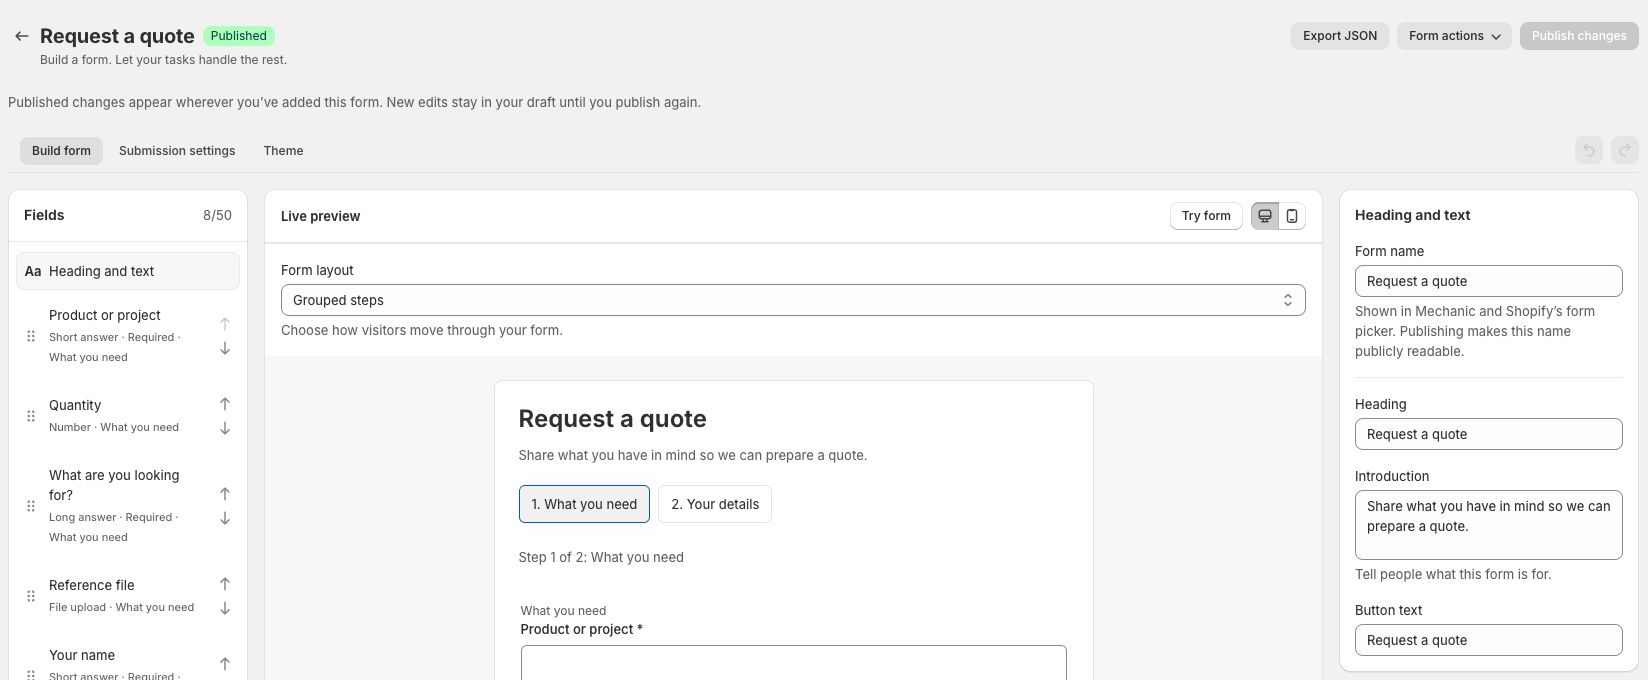
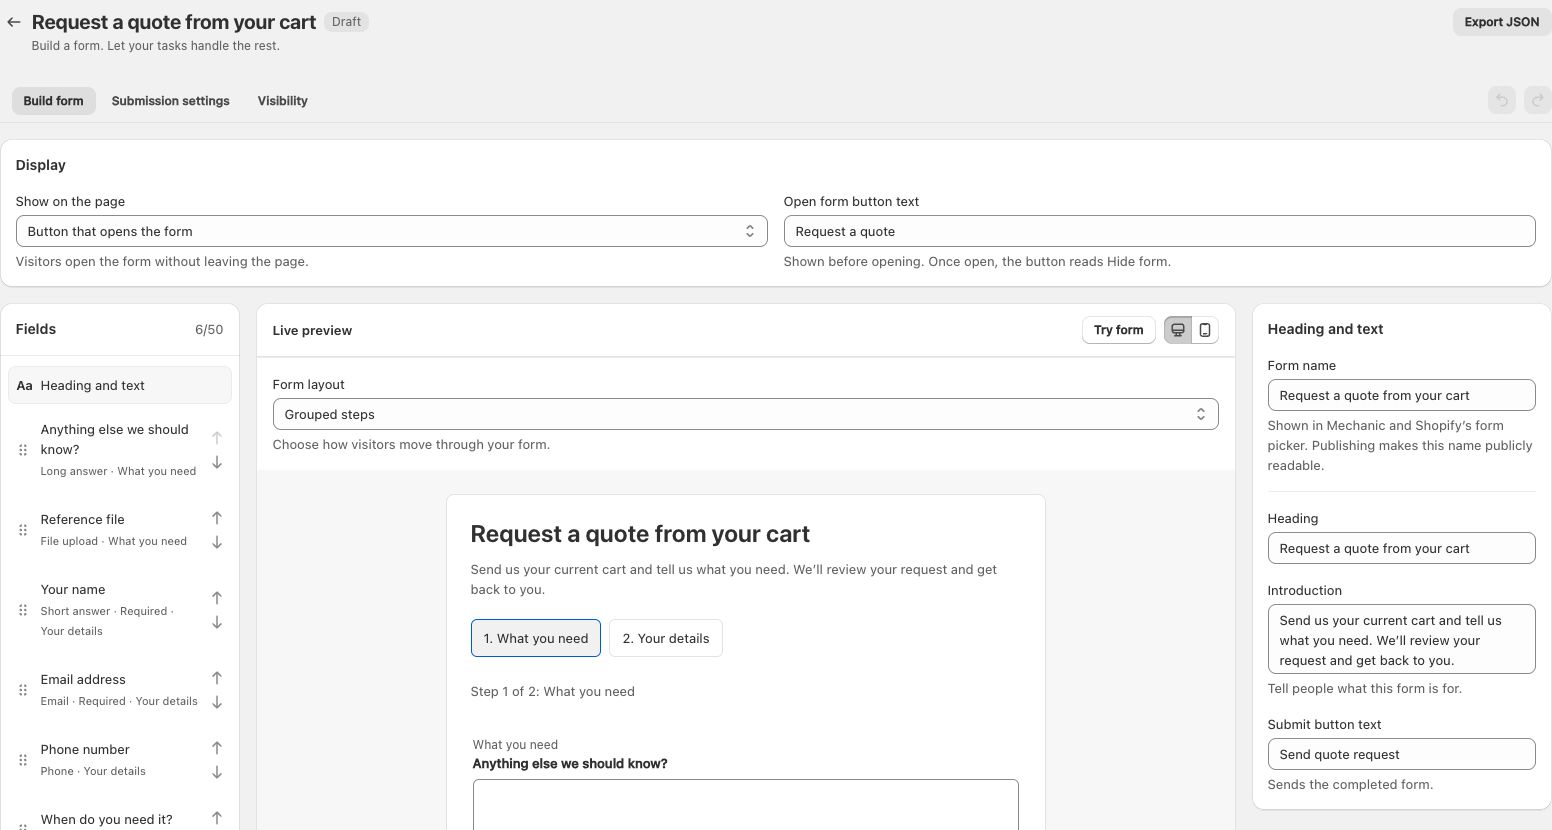
Clarify form display and refresh the builder screenshot

diff --git a/app/forms.md b/app/forms.md
@@ -39,7 +39,7 @@ Templates provide questions, not an approval or booking workflow. Your subscribe
 
 <figure><img src="../.gitbook/assets/storefront-forms-templates.png" alt="Storefront form templates in Mechanic, including quote requests, cart quotes, warranties, and service requests"><figcaption><p>Start with the workflow you need, then make the questions your own.</p></figcaption></figure>
 
-<figure><img src="../.gitbook/assets/storefront-forms-builder.png" alt="The quote-request form builder with a field list, live preview, and heading and text settings"><figcaption><p>Edit questions beside a live preview. This quote-request starter groups its questions into two steps.</p></figcaption></figure>
+<figure><img src="../.gitbook/assets/storefront-forms-builder.png" alt="The cart quote form builder with Display settings above the field list, live preview, and heading and text settings"><figcaption><p>Edit questions beside a live preview. This cart quote starter groups its questions into two steps. Display controls whether visitors see the full form or a button first.</p></figcaption></figure>
 
 ### Choose a layout
 
@@ -51,7 +51,7 @@ Your theme supplies the form’s fonts and colors. You do not need to edit theme
 
 ### Open the form from a button
 
-In **Build form → Heading and text**, set **Show on the page** to **Button that opens the form** and choose the **Open form button text**. The form opens in the same place on the page. Visitors can close and reopen it without losing their answers. Choose **Full form** to display the questions immediately.
+In the **Display** section at the top of **Build form**, set **Show on the page** to **Button that opens the form** and choose the **Open form button text**. The form opens in the same place on the page, and the opening button changes to **Hide form**. Visitors can close and reopen it without losing their answers. The **Submit button text** setting under **Heading and text** controls the separate button that sends the completed form. Choose **Full form** to display the questions immediately.
 
 This option works with any form. Visibility conditions apply to both the button and the form, and your theme still supplies the fonts and colors. Save and publish to change the storefront.
 

diff --git a/platform/webhooks.md b/platform/webhooks.md
@@ -49,7 +49,7 @@ With **Include the cart with each submission** enabled, the multipart body also 
 
 Cart contents and answers remain visitor input. To link a Shopify customer, use [`event.storefront_form_customer`](liquid/objects/event.md#storefront-form-customer) rather than trusting an entered email or customer ID. This helper verifies the context only when your task reads it. The submission is still an ordinary webhook event; other subscribed tasks are unaffected.
 
-The [cart quote walkthrough](../app/forms.md#example-request-a-quote-from-the-cart) uses the existing draft-order task, which validates the cart and lets Shopify supply prices.
+The [cart quote walkthrough](../app/forms.md#example-request-a-quote-from-the-cart) uses the **Create a draft order from a storefront form** task, which validates the cart and lets Shopify supply prices.
 
 ## Configuration
 
